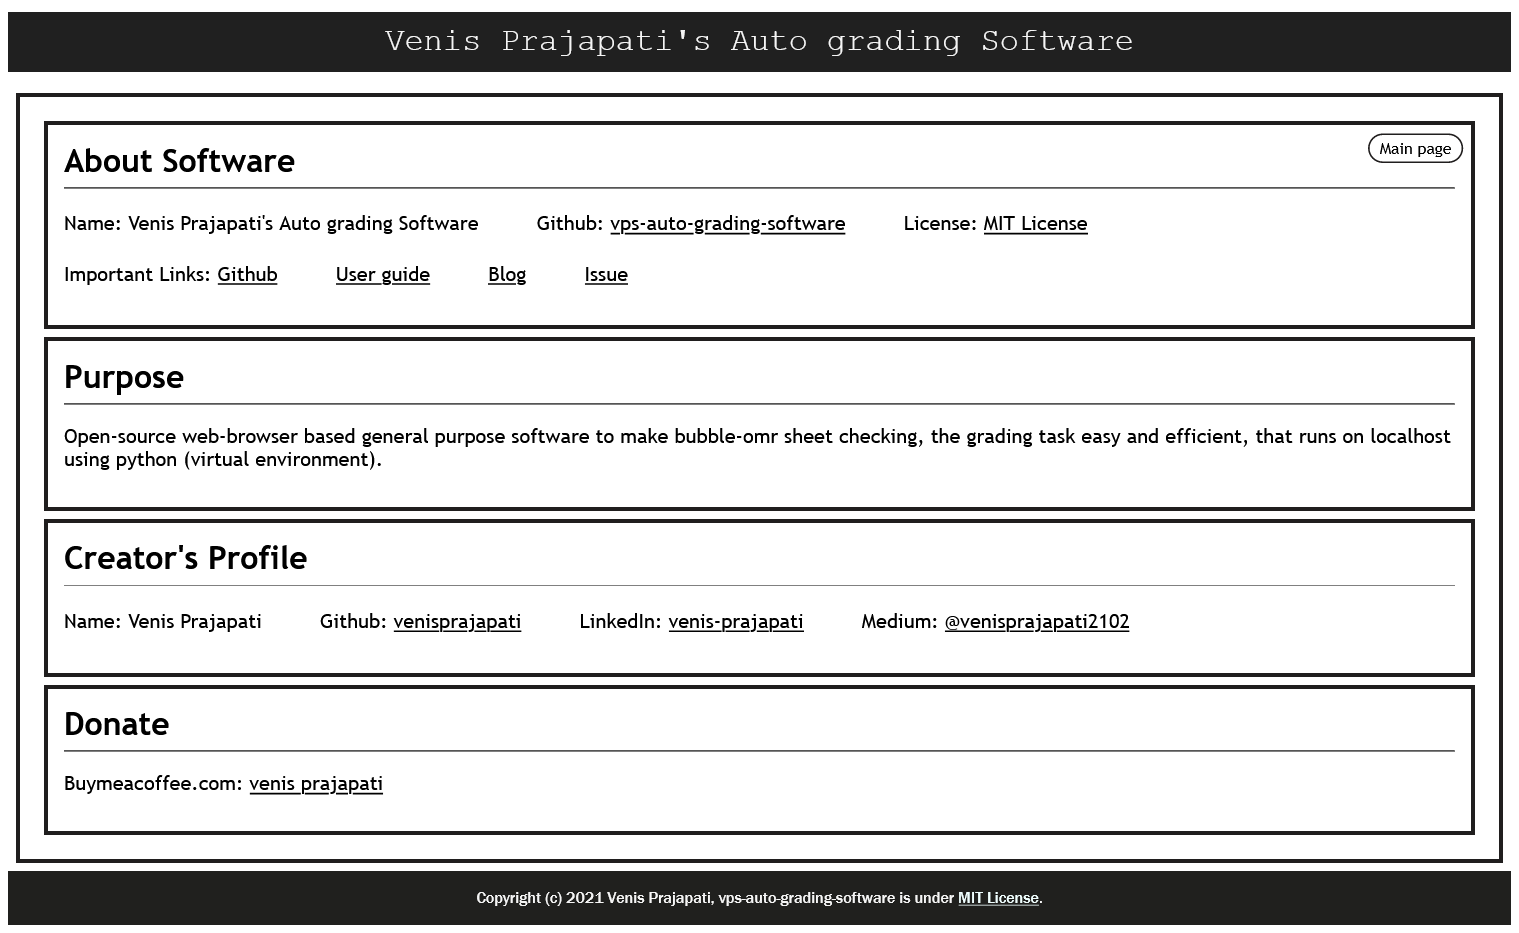
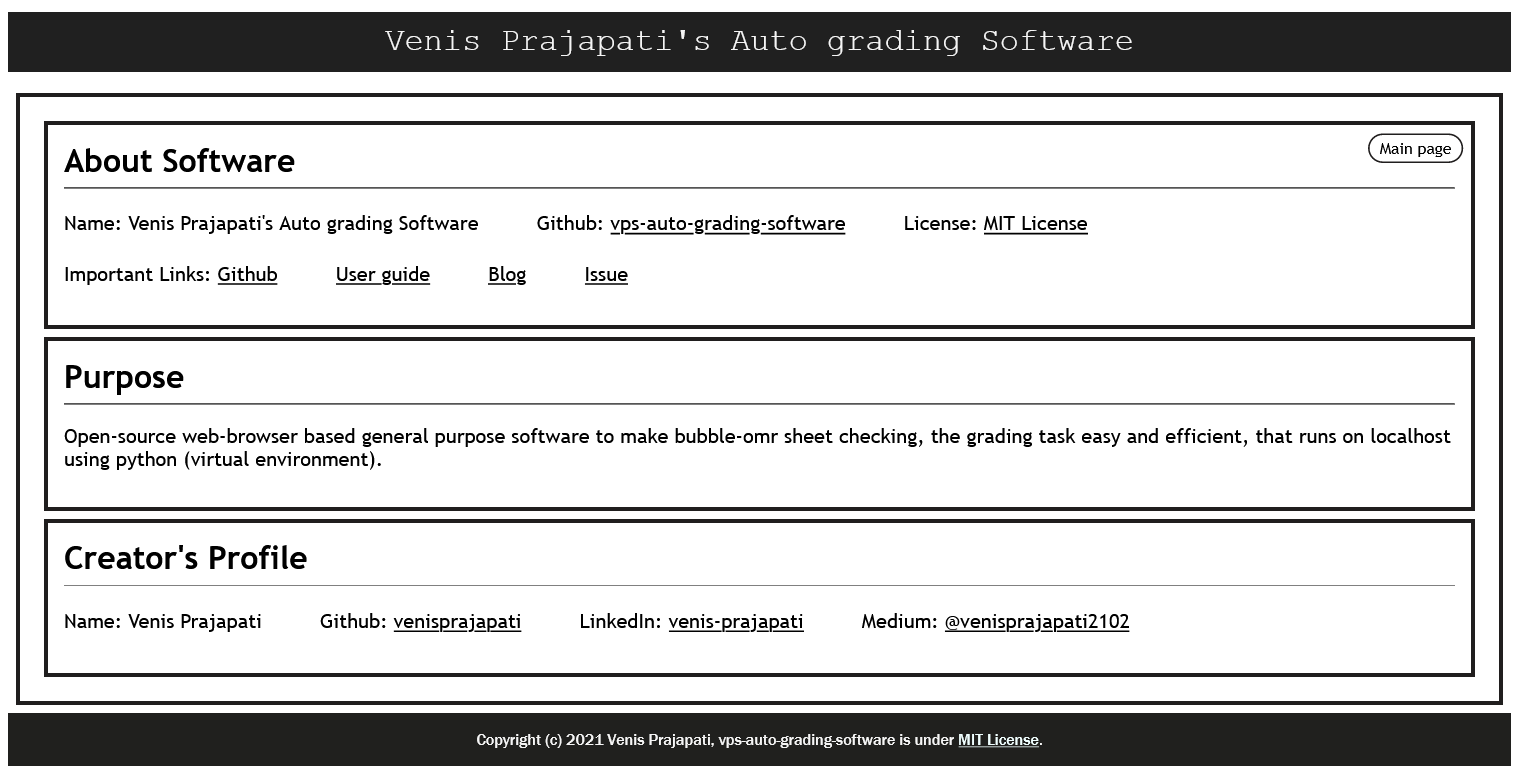
updated some important files including README.md # v 2.7

diff --git a/templates/index.html b/templates/index.html
@@ -78,20 +78,20 @@
 
                 <p></p>
 
-                <label class="form-label" for="section-1">Section 1: &ensp;</label>
-                <input maxlength="12" type="text" name="s1n" id="s1" placeholder="Write Section - 1 name"> &ensp;
+                <label class="form-label" for="section-1">Section 1: &ensp;</label>Name: 
+                <input maxlength="12" type="text" name="s1n" id="s1" placeholder="Write Section - 1 name"> &ensp; Count:
                 <input type="number" name="section-1" id="i6" placeholder="Section-1 till: 45">
 
                 <p></p>
 
-                <label class="form-label" for="section-2">Section 2: &ensp;</label>
-                <input maxlength="12" type="text" name="s2n" id="s2" placeholder="Write Section - 2 name"> &ensp;
+                <label class="form-label" for="section-2">Section 2: &ensp;</label>Name: 
+                <input maxlength="12" type="text" name="s2n" id="s2" placeholder="Write Section - 2 name"> &ensp; Count:
                 <input type="number" name="section-2" id="i7" placeholder="Section-2 till: 90">
 
                 <p></p>
 
-                <label class="form-label" for="section-3">Section 3: &ensp;</label>
-                <input maxlength="12" type="text" name="s3n" id="s3" placeholder="Write Section - 3 name"> &ensp;
+                <label class="form-label" for="section-3">Section 3: &ensp;</label>Name: 
+                <input maxlength="12" type="text" name="s3n" id="s3" placeholder="Write Section - 3 name"> &ensp; Count:
                 <input type="number" name="section-3" id="i8" placeholder="Section-3 till: 180">
 
                 <p></p>

diff --git a/templates/info.html b/templates/info.html
@@ -19,6 +19,7 @@
 
     <div id="frame">
 
+
         <a style="float: right;" class="back-link" href="/">Main page</a>
 
         <div id="frame">
@@ -78,19 +79,6 @@
             </p>
         </div>
 
-        <div id="frame">
-
-            <main class="main-0">Donate</main>
-
-            <hr>
-
-            <p class="main-1">
-
-                Buymeacoffee.com: <a href="https://www.buymeacoffee.com/venisprajapati">venis prajapati</a>
-
-            </p>
-
-        </div>
 
     </div>
 

diff --git a/services/make_result_documents.py b/services/make_result_documents.py
@@ -174,4 +174,4 @@ def ResultDocument(exam_name_, exam_date_, section_, results, omr_s_, students, 
         document.add_paragraph(
             "________________________________________________________________________________________________________________________________")
 
-    document.save(f'./result/{exam_name_}_{exam_date_.replace("-", "_")}.docx')
+    document.save(f'./result/{exam_name_.replace(" ", "_").replace("-", "_")}_{exam_date_.replace("-", "_")}.docx')

diff --git a/services/contour_.py b/services/contour_.py
@@ -70,7 +70,7 @@ def find_ROI(img, omrType):
 
     if len(approx) == 4:
 
-        cv2.drawContours(img, [contours[0]], 0, (0, 0, 255), 2)
+        # cv2.drawContours(img, [contours[0]], 0, (0, 0, 255), 2)
         transformed = PerspectiveTransform(image, approx)
 
     if (omrType):

diff --git a/README.md b/README.md
@@ -14,7 +14,7 @@
 
 ## Technical Info
 
-- Requirements: python 3.9 support, web browser
+- Requirements: python 3.9 support, Web browser
 - languages: Python == 3.9.6, Batchfile, HTML, CSS
 - libraries used: 
     - Flask
@@ -30,17 +30,19 @@
 
 ## Concept
 
-- Convert scanned images of OMR sheet to specific width(i.e. w=624) with aspect ratio maintain, then use GaussianBlur; make it grayscale using cvtColor with COLOR_BGR2GRAY and apply some threshold to convert the pixels above threshold value to Black.
+- Scanned images will be processed to find biggest contour in img, then after applying some <b>Threshold</b> algorithm will crop scanned image using <b>Perspective Transform</b>.
 
-- There is some specific grid like desing to Scan specific box (i.e. around the bubble) in OMR Sheet so that function will count the number of Black pixels in specific area (or bubble), if count of black pixels is above specific value then it is filled or marked otherwise not filled or marked by the user (or student).
+- Converted scanned images of OMR sheet to specific width and height with maintain aspect ratio aintain, then use <b>GaussianBlur</b>; make it grayscale using <b>cvtColor</b> with <b>COLOR_BGR2GRAY</b> and apply some threshold to convert the pixels above threshold value to Black.
 
-- 90 MCQs Bubble OMR Sheet with grid to count black pixels in specific square of grid.
+- There is some specific grid like desing to Scan specific box (i.e. around the bubble) in OMR Sheet so then functions will count the <b>number of Black pixels</b> in specific area (or bubble), if count of black pixels is above specific value then it is filled or marked otherwise not filled or marked by the user (or student).
 
-    ![grid-omr](https://github.com/venisprajapati/vps-auto-grading-software/blob/main/screen-shots/grid_.png?raw=true)
+- 190 MCQs Bubble OMR Sheet with perspective-transformed image and mcq area highlighted to check count black pixels in specific square in virtual grid.
+
+    ![contour-and-mcq-area](https://github.com/venisprajapati/vps-auto-grading-software/blob/main/screen-shots/contour-and-mcq-area.png?raw=true)
 
 - Returned objects from scan function used to make results with answers given by users and scanned by openpyxl functions, then results are added to students excel file; then omr resonses and results are used to make a document that contains all details, ranking, analysis by marks, analysis by sections, results in details for individual students and also a response ticked by students in OMR Sheet.
 
-- Hence, OMR Sheet is checked and you have results in your hand, LOL ;)
+- Hence, OMR Sheet is checked and you get result and student-report-cards.
 
 
 ## Installation
@@ -64,6 +66,7 @@
     ```
     pip3 install -r requirements.txt
     ```
+- Also create 2 folders in project directory <b>uploads</b> and <b>uploads/omrs</b>.
 - To run project run this command
     ```
     python3 app.py
@@ -71,14 +74,28 @@
 - Server runs with output like: <b>Venis Prajapati's Auto grading Software Started At PORT: <a href="http://127.0.0.1:2102/">http://127.0.0.1:2102/</a> </b>
 
 
+## Test
+
+- For testing, put scanned images in <b>test</b> directory, then run following command
+    ```
+    python test.py
+    ```
+- This will show detected contour, perspective transform, draw rectangles in mcq area as shown in above image in Concept section.
+- In line no.-14, you can change to respective omr size i.e. 190, 120.., .
+    ```
+    total_mcqs = 90
+    ```
+- It will also print python dictionary, containing information of all scanned OMRs for test.
+
+
 ## Usage
 
 Follow below important links:
 
-- <a href="https://github.com/venisprajapati/vps-auto-grading-software">Github</a>
-- <a href="https://medium.com/@venisprajapati2102/about-vps-auto-grading-software-5b611ffe6c74">Medium Blog</a>
 - <a href="https://github.com/venisprajapati/vps-auto-grading-software/blob/main/User-guide.pdf">User Guide</a>
+- <a href="https://medium.com/@venisprajapati2102/about-vps-auto-grading-software-5b611ffe6c74">Medium Blog</a>
 - <a href="https://github.com/venisprajapati/vps-auto-grading-software/issues">Issues</a>
+- <a href="https://github.com/venisprajapati/vps-auto-grading-software">Github</a>
 
 
 ## Developer
@@ -108,3 +125,5 @@ Licensed under the [MIT](LICENSE) license.
 
 3) About Screen
     ![info-page](https://github.com/venisprajapati/vps-auto-grading-software/blob/main/screen-shots/vps-ags_info_page.png?raw=true)
+
+*thank you*
